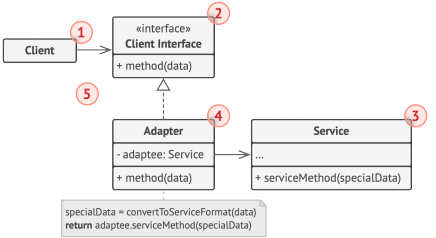
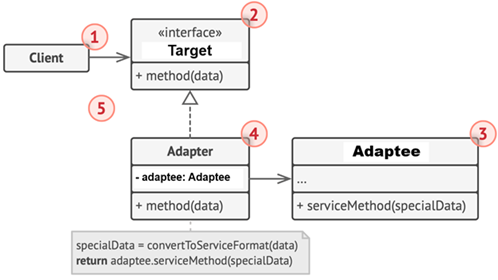
Java - patrones estructurales - adapter - weather - doc 03

Changed region(s): [[0.0, 0.0, 1.0, 1.0], [0.1491, 0.3235, 0.2385, 0.4412]]

diff --git a/03.java_plano_patrones_estructurales.md b/03.java_plano_patrones_estructurales.md
@@ -29,18 +29,18 @@ Funciona como un traductor entre dos mundos: convierte la interfaz de una clase 
 
 ![01.png](assets/04-java-plano-estructural/01.png)
 
-1. `Client`, contiene la lógica de negocio existente del programa.
-2. `Client interface` describe un protocolo que otras clases deben seguir para poder colaborar con el código cliente.
-3. `Service` es alguna clase útil (normalmente de una tercera parte o heredada). El `client` no puede utilizar
-   directamente esta clase porque tiene una interfaz incompatible.
-4. `Adapter` es una clase capaz de trabajar tanto con la clase `client` como con la clase `service`: implementa el
-   `client interface` mientras envuelve el objeto de la clase `service`. La clase adaptadora recibe llamadas del
-   cliente a través de la interfaz adaptadora y las traduce en llamadas al objeto envuelto de la clase de servicio,
-   pero en un formato que pueda comprender.
-5. El código cliente no se acopla a la clase adaptadora concreta siempre y cuando funcione con la clase adaptadora a
-   través del `client interface`. Gracias a esto, puedes introducir nuevos tipos de adaptadores en el programa sin
-   descomponer el código cliente existente. Esto puede resultar útil cuando la interfaz de la clase de servicio se
-   cambia o se sustituye, ya que puedes crear una nueva clase adaptadora sin cambiar el código cliente.
+1. `Client`: contiene la lógica de negocio existente del programa. No conoce directamente al `Adapter` ni al `Adaptee`,
+   sino que interactúa a través de la interfaz `Target`.
+2. `Target`: define el protocolo que el `Client` espera usar. Es una interfaz que otras clases deben implementar para
+   colaborar con el cliente.
+3. `Adaptee`: representa una clase útil (normalmente de una biblioteca externa o heredada) cuya interfaz es
+   incompatible con `Target`. El cliente no puede utilizarla directamente.
+4. `Adapter`: implementa la interfaz `Target` y envuelve una instancia de `Adaptee`. Traduce las llamadas del cliente
+   en invocaciones compatibles con `Adaptee`, permitiendo que el cliente use su funcionalidad sin conocer su interfaz
+   real.
+5. Gracias a que el `Client` depende solo de `Target`, se puede introducir nuevos `Adapter` sin modificar el código
+   cliente. Esto es útil cuando cambia la interfaz de `Adaptee` o se reemplaza por otra clase: basta con crear un nuevo
+   `Adapter` que implemente `Target`.
 
 ### 🎯 Ejemplo 01: Consumir APIs externas de distintos proveedores (climas)
 
